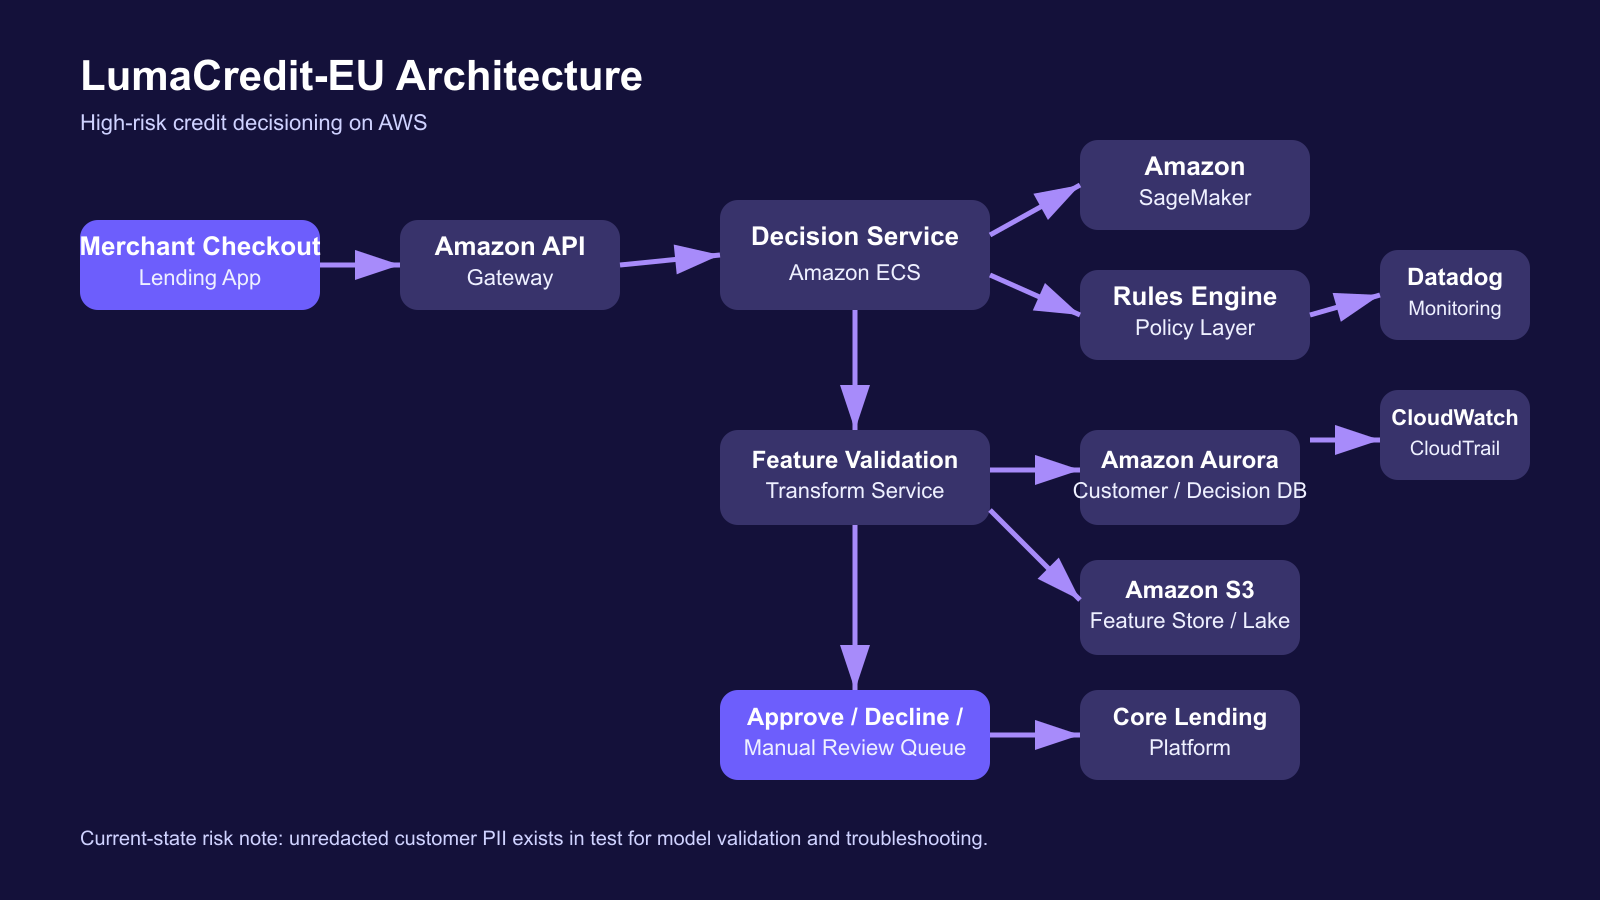
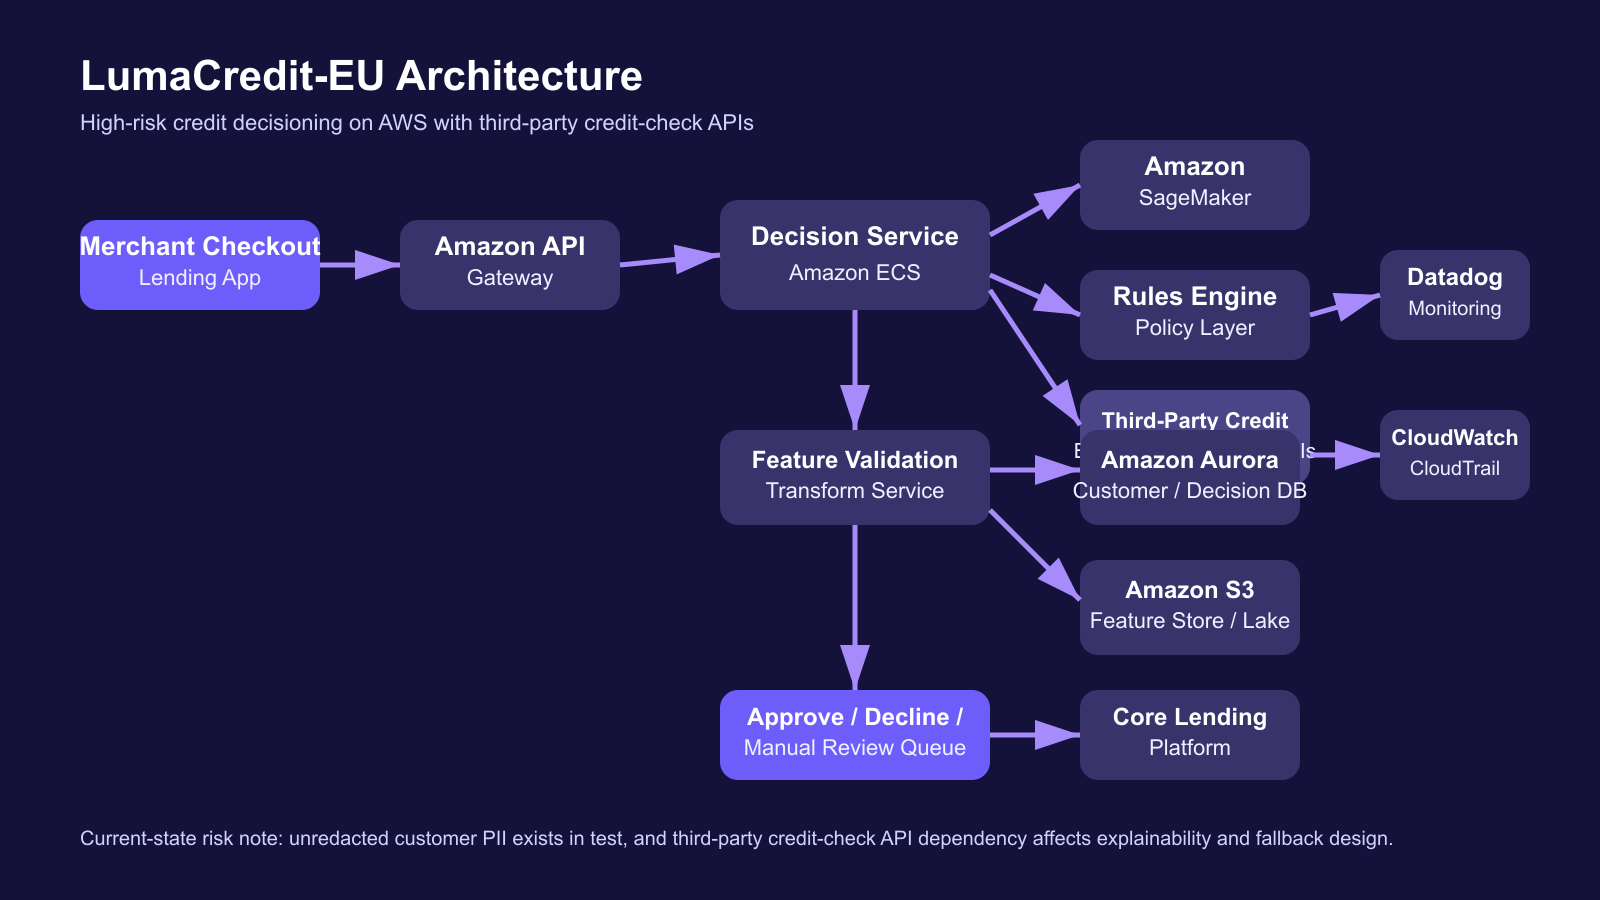
Update LumaCredit-EU external credit API design

diff --git a/03-ai-applications/03-lumacredit-eu/HLD.md b/03-ai-applications/03-lumacredit-eu/HLD.md
@@ -11,16 +11,18 @@
 ## 2. AI Pattern
 - Predictive credit-risk models hosted on `Amazon SageMaker`
 - Rules and policy layer executed in an application service on `Amazon ECS`
+- Third-party credit-check APIs used to enrich applicant data with bureau and affordability signals
 - Human-in-the-loop design for manual review when model confidence, affordability, or policy thresholds are breached
 - Key substrate properties: `opacity`, `drift`, `dependency`
 
 ## 3. Core Workflow
 1. Merchant checkout or lending workflow calls an internal decision API.
 2. API collects application, transaction, device, and bureau data.
-3. Data is validated and transformed through a feature pipeline.
-4. Model inference runs in `SageMaker` and returns a score.
-5. Policy rules determine approve, decline, or manual review.
-6. Decision, reason codes, and audit records are written to the core lending platform.
+3. Decision service calls third-party credit-check APIs for bureau, affordability, and identity-linked credit signals.
+4. Data is validated and transformed through a feature pipeline.
+5. Model inference runs in `SageMaker` and returns a score.
+6. Policy rules determine approve, decline, or manual review.
+7. Decision, reason codes, and audit records are written to the core lending platform.
 
 ## 4. AWS Architecture
 
@@ -31,6 +33,7 @@ flowchart LR
     C --> D["Feature Service / Validation"]
     D --> E["Amazon Aurora PostgreSQL"]
     D --> F["Amazon S3 Feature Store / Data Lake"]
+    C --> M["Third-Party Credit Bureau / Credit Check APIs"]
     C --> G["Amazon SageMaker Endpoint"]
     C --> H["Rules Engine"]
     H --> I["Approve / Decline / Manual Review Queue"]
@@ -41,12 +44,14 @@ flowchart LR
 
 ## 5. Data And Integrations
 - Input data: customer identity, application details, income, repayment history, device data, bureau or open-banking signals
+- Third-party API data: bureau scores, affordability checks, fraud-adjacent identity signals, and creditworthiness indicators
 - Output data: credit score, policy outcome, reason codes, referral flag
 - Sensitive data: `PII`, financial data, creditworthiness data
 - Internal systems: lending platform, merchant onboarding, CRM, case management
-- External dependencies: credit bureau or data provider APIs, open-banking aggregators, payment processors
+- External dependencies: credit bureau APIs, credit-check providers, open-banking aggregators, and payment processors
 - Cross-border flows: EU and UK decision data may be stored or backed up in `US-hosted` cloud services, creating `GDPR` concerns
 - Current-state issue: unredacted customer `PII` has been copied into `test` for model validation and threshold testing
+- Third-party dependency issue: weak contract governance or API failure at a credit-check provider can directly affect lending decisions, fallback logic, and explainability
 
 ## 6. Hosting And Operations
 - `test`: currently contains unredacted `PII` copied from production-like datasets for model validation, threshold testing, and troubleshooting
@@ -57,17 +62,17 @@ flowchart LR
 
 ## 7. Lifecycle View
 - Design: model purpose, fairness assumptions, approval criteria, and board risk appetite should be documented
-- Data: data lineage, label quality, bureau-data contracts, retention, and lower-environment masking need strong control
+- Data: data lineage, label quality, bureau-data contracts, third-party credit-check API provenance, retention, and lower-environment masking need strong control
 - Develop: code, feature logic, and model changes need versioning and sign-off
-- Deploy: model promotion from `test` to `production` should be gated and logged
-- Monitor: drift, error rates, complaint themes, and approval bias indicators should be tracked
+- Deploy: model promotion from `test` to `production` should be gated and logged, and API dependency changes should follow the same approval path
+- Monitor: drift, error rates, complaint themes, approval bias indicators, and third-party API latency or failure patterns should be tracked
 
 ## 8. Enterprise Risk Lenses
 - Governance lens: high-risk AI classification, model ownership, explainability expectations, and approval accountability
-- Operational lens: drift, data quality failure, broken feature pipelines, manual-review overload, or unsafe test-data handling can degrade decisions silently
-- Cyber lens: inference endpoint abuse, privileged data access, insecure third-party integrations, and exposed lower-environment `PII` are key concerns
+- Operational lens: drift, data quality failure, broken feature pipelines, manual-review overload, third-party API outages, or unsafe test-data handling can degrade decisions silently
+- Cyber lens: inference endpoint abuse, privileged data access, insecure third-party credit-check integrations, and exposed lower-environment `PII` are key concerns
 
 ## 9. Standards And Evidence
 - Primary standards and regulations: `EU AI Act Annex III`, `ISO/IEC 42001`, `ISO/IEC 5259`, `GDPR`, `UK GDPR`, `PCI DSS`, `NIST AI RMF`
-- Due-diligence artefacts to request: model documentation, validation reports, feature lineage, DPIA, lower-environment data-masking policy, approval workflow records, credit-policy rules, audit logs
-- Audit evidence expected: deployment approvals, model performance reviews, access logs, retention settings, manual-review procedures, evidence of `test` data sanitization or lack thereof
+- Due-diligence artefacts to request: model documentation, validation reports, feature lineage, DPIA, lower-environment data-masking policy, approval workflow records, credit-policy rules, third-party credit-check API contracts, SLAs, audit logs
+- Audit evidence expected: deployment approvals, model performance reviews, access logs, retention settings, manual-review procedures, third-party API review records, and evidence of `test` data sanitization or lack thereof
